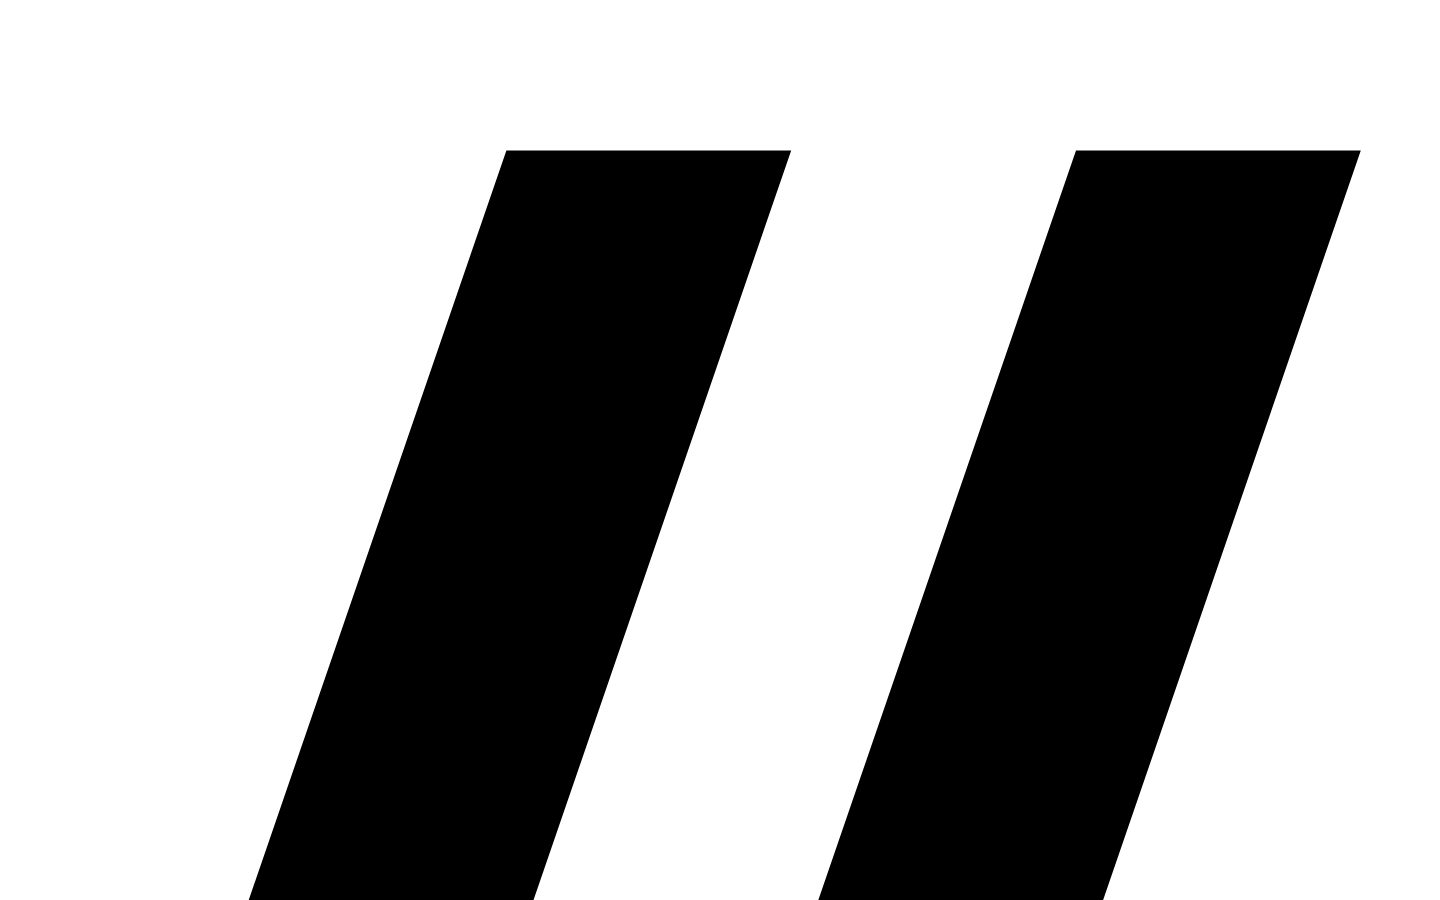
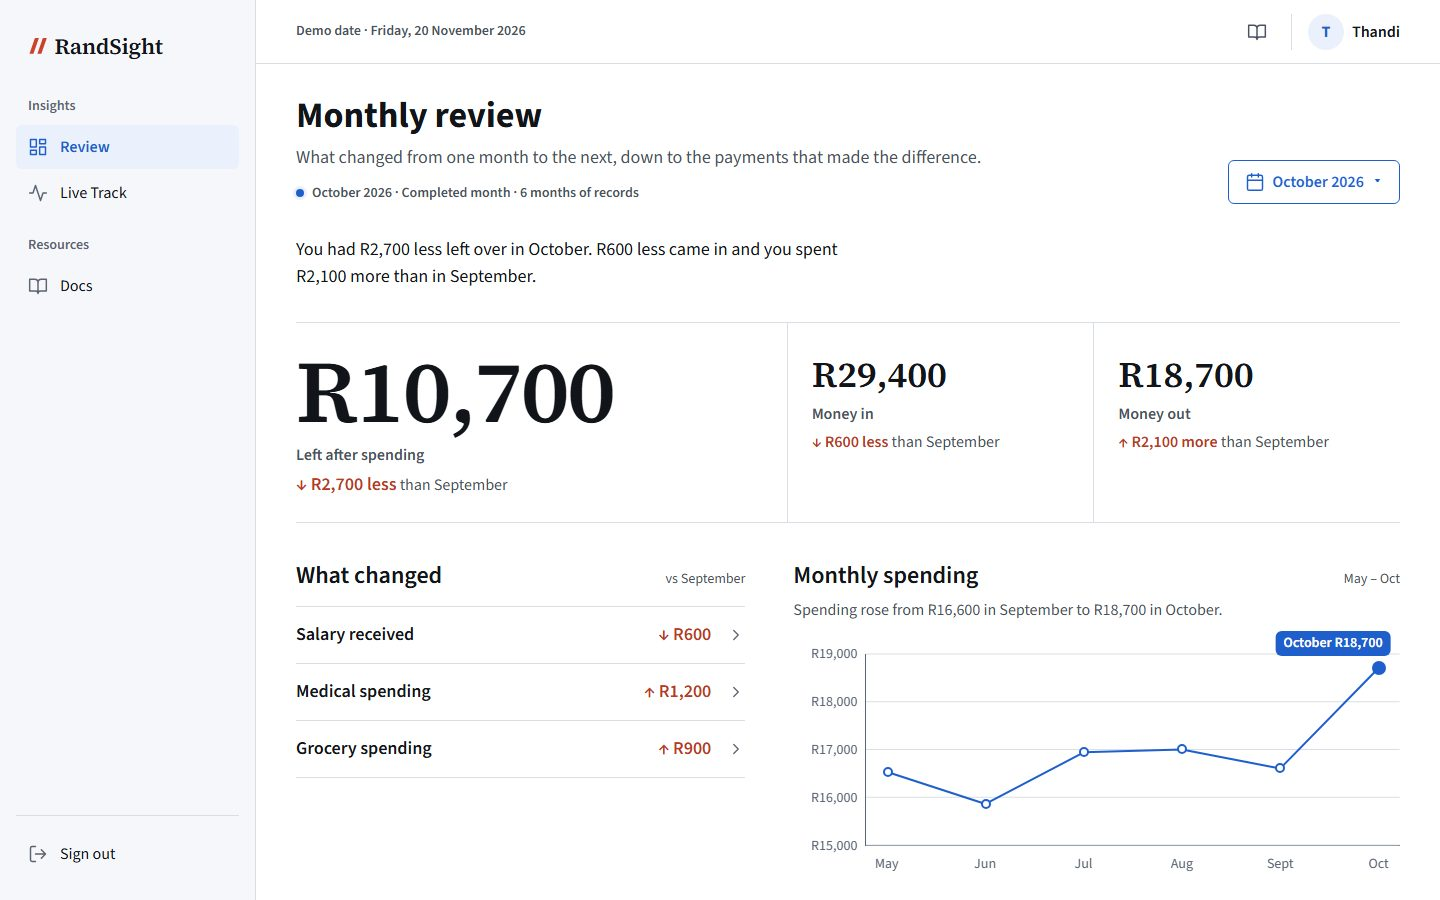
fix: replace unstyled landing screenshots and refuse to save broken ones

diff --git a/scripts/screenshots.ts b/scripts/screenshots.ts
@@ -7,6 +7,16 @@ const base = process.env.BASE_URL ?? 'http://localhost:3100'
 const out = 'public/screens'
 mkdirSync(out, { recursive: true })
 
+const browser = await chromium.launch()
+// A server whose build changed underneath it serves HTML pointing at missing CSS: never save that.
+const failed: string[] = []
+
+async function newPage(options: Parameters<typeof browser.newPage>[0]) {
+  const page = await browser.newPage(options)
+  page.on('response', (res) => res.status() >= 400 && failed.push(`${res.status()} ${res.url()}`))
+  return page
+}
+
 async function signIn(page: Page) {
   await page.goto(`${base}/sign-in`)
   await page.getByLabel('Email address').fill('thandi@randsight.example')
@@ -15,17 +25,23 @@ async function signIn(page: Page) {
   await page.waitForURL(`${base}/dashboard`)
 }
 
-const browser = await chromium.launch()
+async function shoot(page: Page, name: string, quality: number) {
+  // Let load animations finish, then confirm the stylesheet applied (the review sits on the grey canvas).
+  await page.waitForFunction(() => document.getAnimations().every((a) => a.playState !== 'running'))
+  const styled = await page.evaluate(() => getComputedStyle(document.body).backgroundColor !== 'rgba(0, 0, 0, 0)')
+  if (!styled || failed.length) throw new Error(`${name}: not saved. ${failed.join(', ') || 'Page is unstyled'}. Rebuild and restart the server.`)
+  await page.screenshot({ path: `${out}/${name}`, type: 'jpeg', quality })
+}
 
-const desktop = await browser.newPage({ viewport: { width: 1440, height: 900 }, deviceScaleFactor: 1 })
+const desktop = await newPage({ viewport: { width: 1440, height: 900 }, deviceScaleFactor: 1 })
 await signIn(desktop)
-await desktop.screenshot({ path: `${out}/dashboard-desktop.jpg`, type: 'jpeg', quality: 82 })
+await shoot(desktop, 'dashboard-desktop.jpg', 82)
 
-const phone = await browser.newPage({ viewport: { width: 390, height: 844 }, deviceScaleFactor: 2, isMobile: true, hasTouch: true })
+const phone = await newPage({ viewport: { width: 390, height: 844 }, deviceScaleFactor: 2, isMobile: true, hasTouch: true })
 await signIn(phone)
-await phone.screenshot({ path: `${out}/dashboard-mobile.jpg`, type: 'jpeg', quality: 80 })
+await shoot(phone, 'dashboard-mobile.jpg', 80)
 await phone.goto(`${base}/dashboard?month=2026-10&category=medical`)
-await phone.screenshot({ path: `${out}/medical-mobile.jpg`, type: 'jpeg', quality: 80 })
+await shoot(phone, 'medical-mobile.jpg', 80)
 
 await browser.close()
 console.log(`Saved screenshots to ${out}/`)
